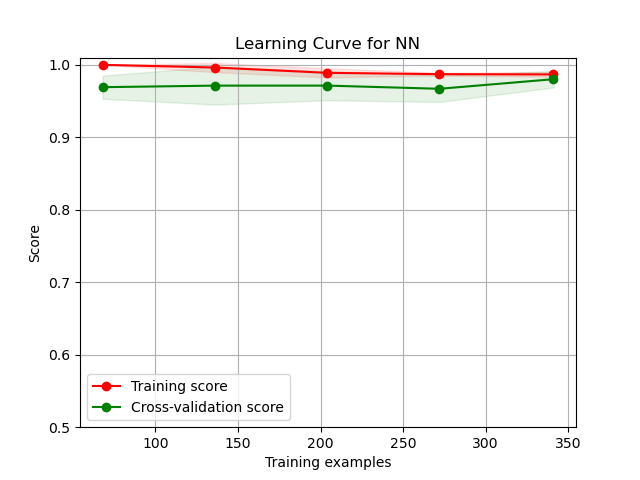
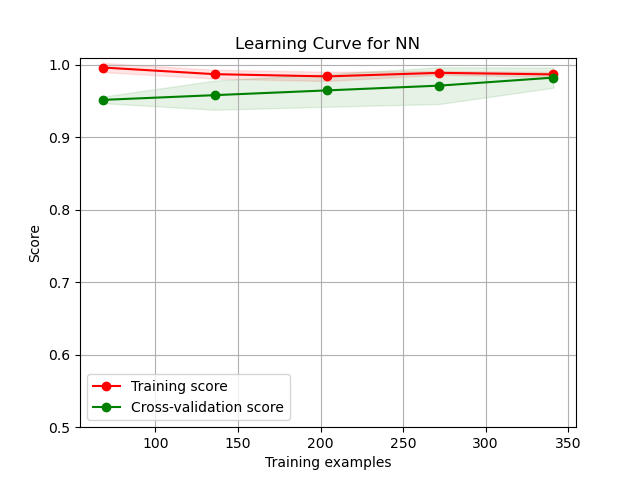
pr1 update loss curve

Changed region(s): [[0.1562, 0.125, 0.875, 0.25]]

diff --git a/pr1/NN.py b/pr1/NN.py
@@ -23,7 +23,7 @@ class NeuralNetwork(object):
         """
         build and train decision tree
         """
-        clf_nn = MLPClassifier(random_state=42, max_iter=5000)
+        clf_nn = MLPClassifier(random_state=42, max_iter=500)
         param_grid = {'hidden_layer_sizes': np.arange(1, 100, 10),
                       'activation': ['identity', 'logistic', 'tanh', 'relu']}
         clf_nn.fit(X_train,y_train)
